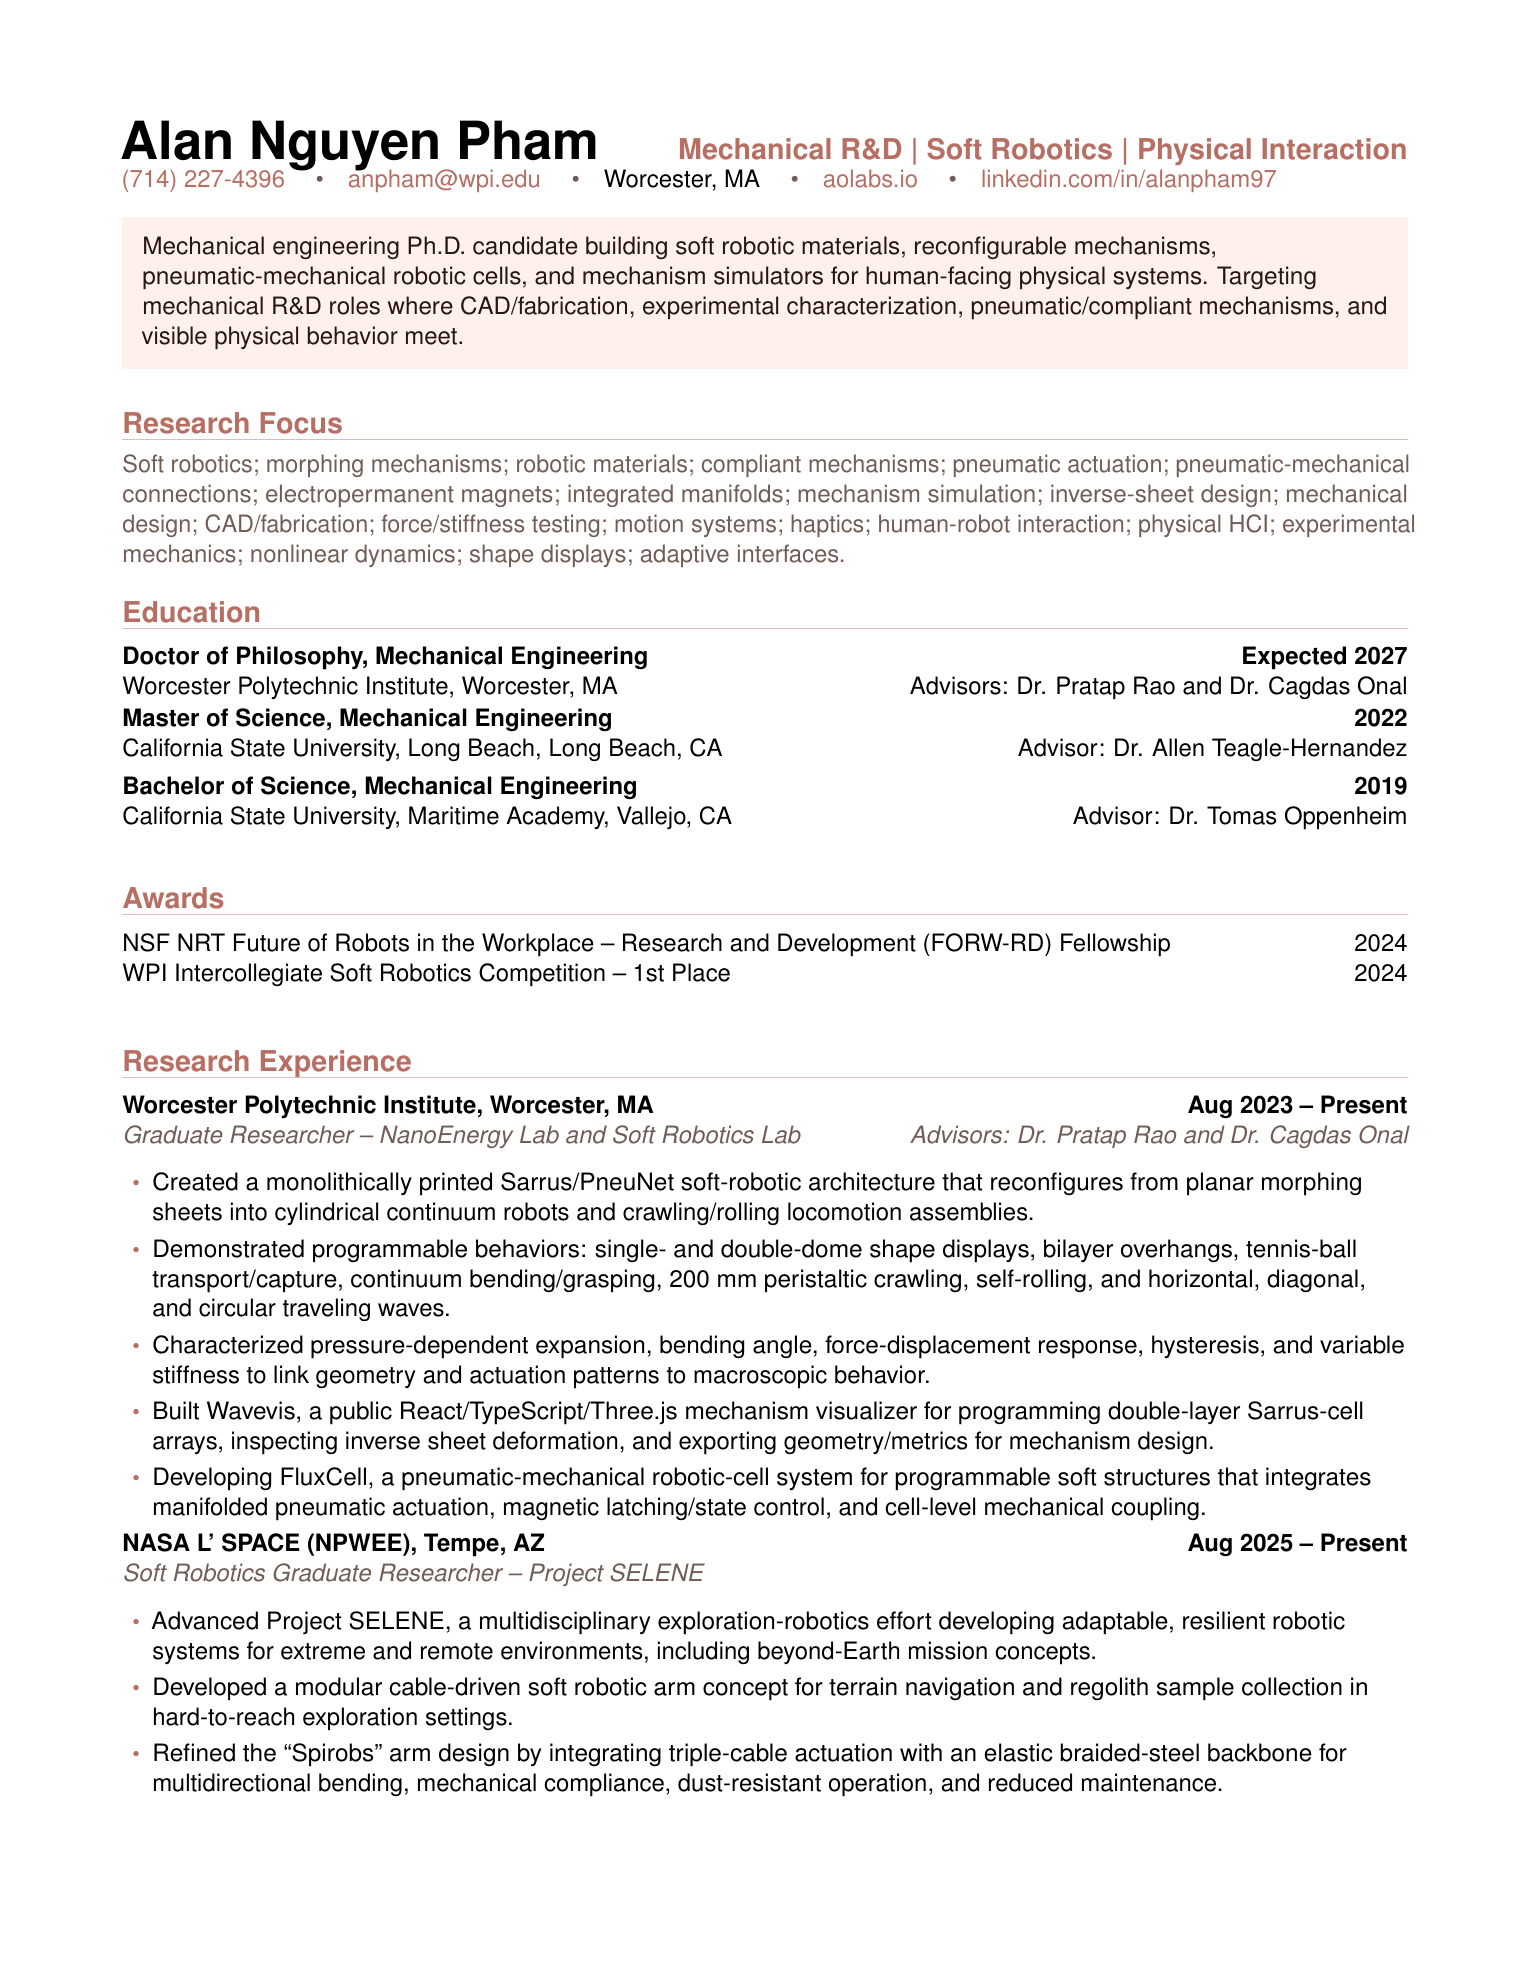
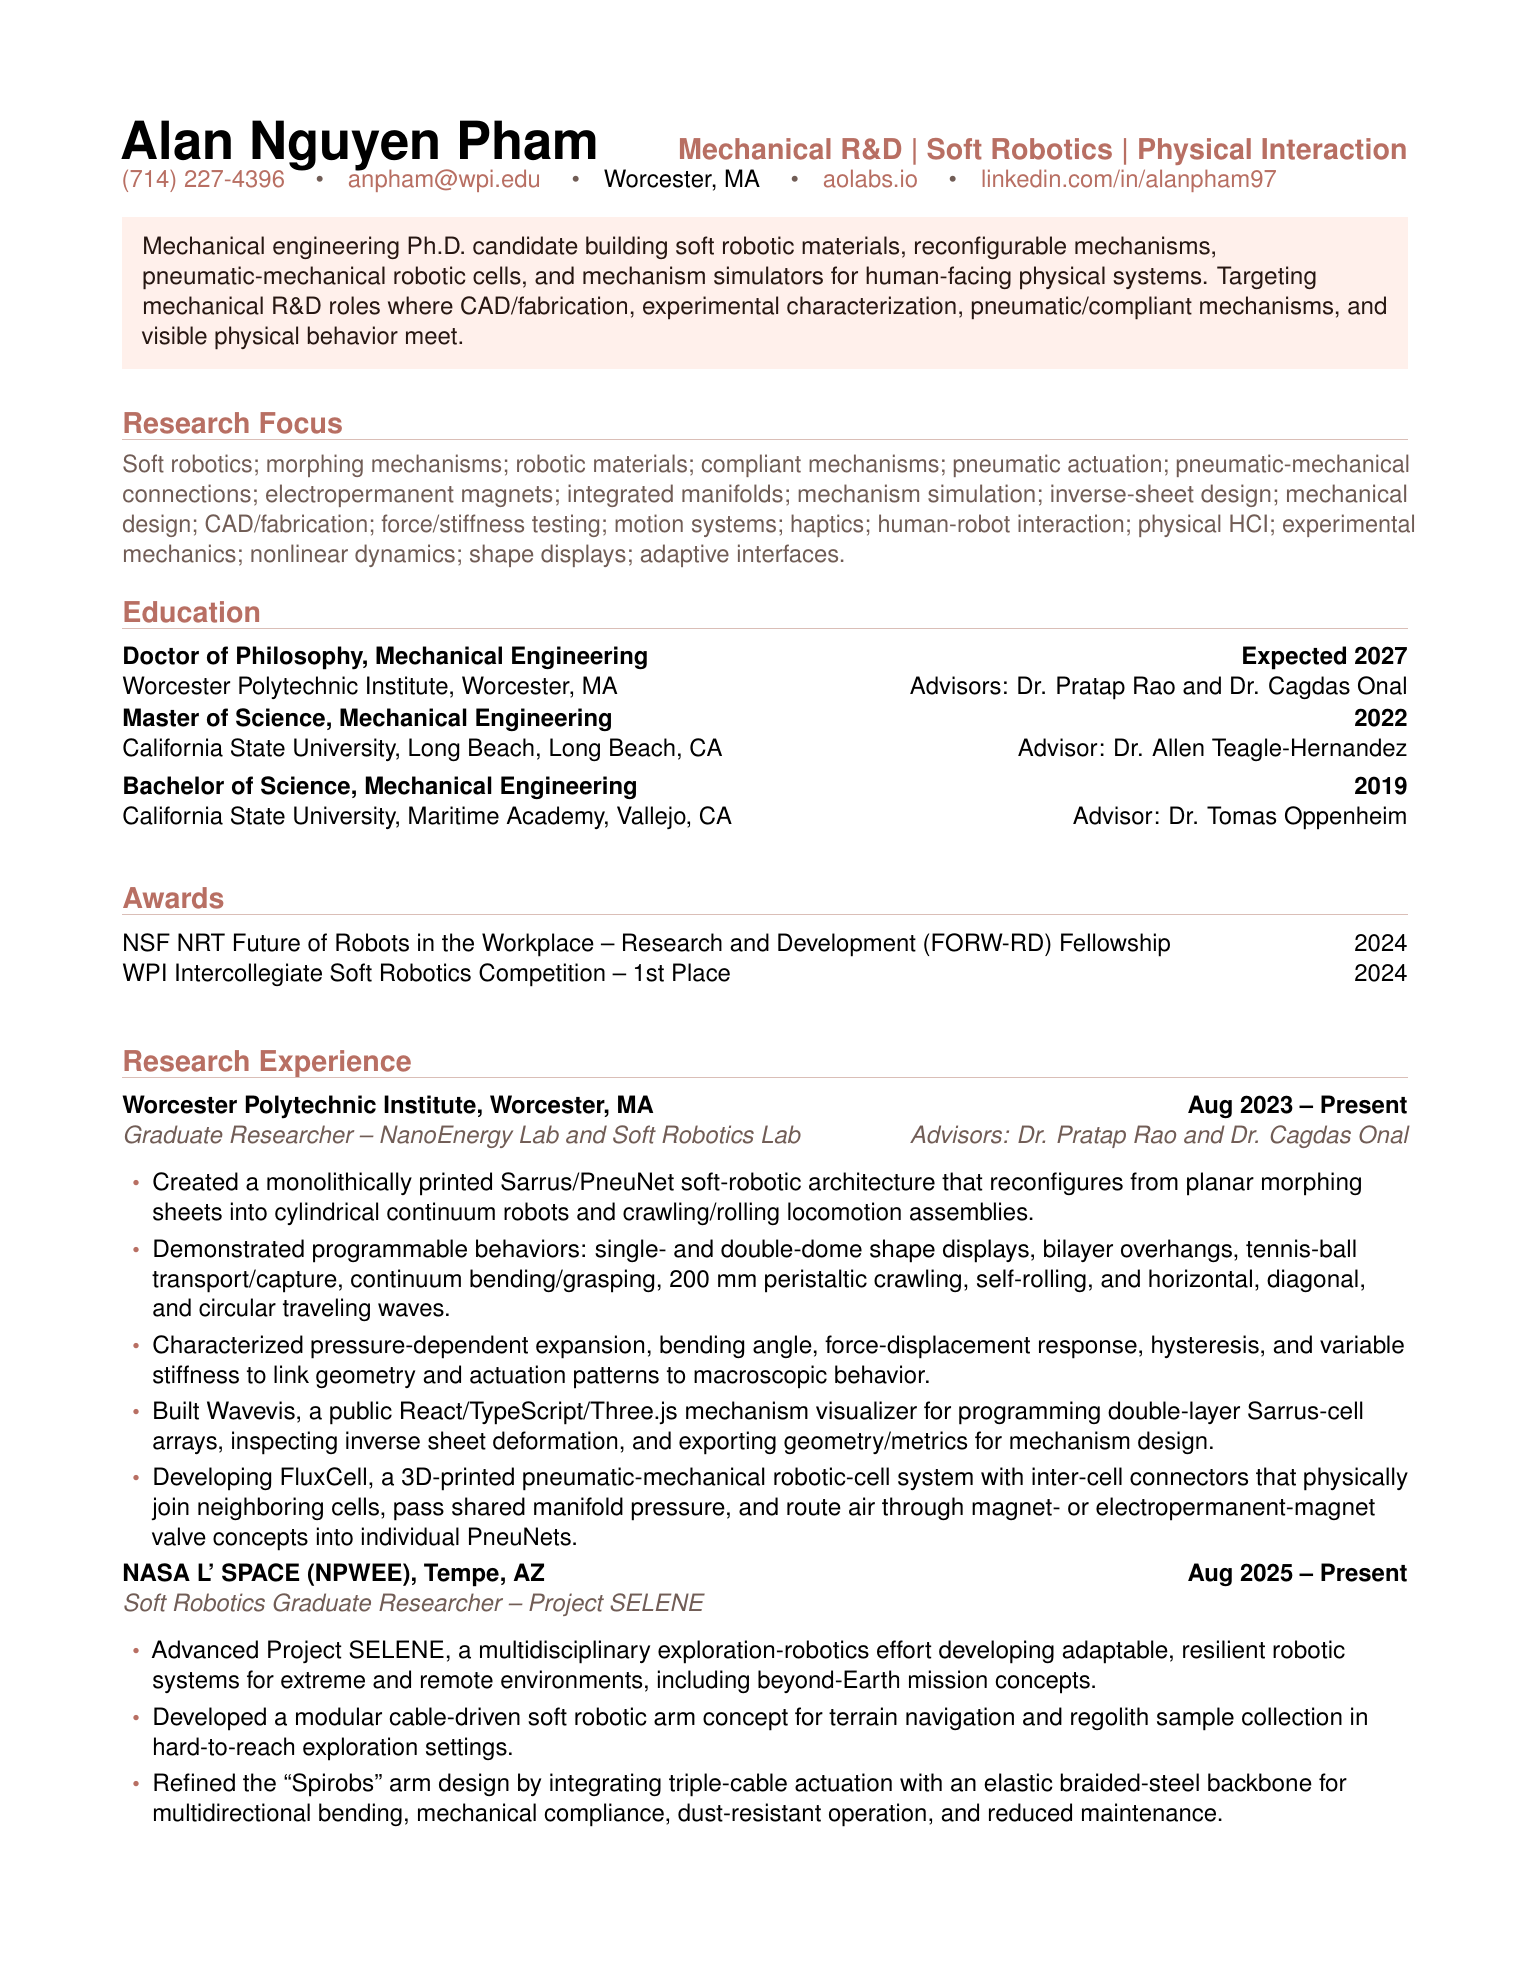
Update FluxCell CV preview wording

Changed region(s): [[0.0614, 0.7394, 0.9216, 0.9242]]

diff --git a/index.html b/index.html
@@ -38,7 +38,7 @@
       </a>
     </div>
     <div class="suite-topbar-actions" aria-label="cv actions">
-      <a href="/alan-nguyen-pham-cv.pdf?v=20260605-research-entry">open pdf</a>
+      <a href="/alan-nguyen-pham-cv.pdf?v=20260605-fluxcell-flow">open pdf</a>
     </div>
   </header>
 
@@ -47,8 +47,8 @@
       <p>Mechanical R&amp;D CV for soft robotics, mechanism simulation, pneumatic-mechanical robotic cells, experimental mechanics, and human-facing physical prototypes.</p>
     </section>
     <section class="viewer" aria-label="cv preview">
-      <a class="document-link" href="/alan-nguyen-pham-cv.pdf?v=20260605-research-entry" aria-label="Open Alan Nguyen Pham CV PDF">
-        <img src="/alan-nguyen-pham-cv-page-1.png?v=20260605-research-entry" alt="First page preview of Alan Nguyen Pham's CV.">
+      <a class="document-link" href="/alan-nguyen-pham-cv.pdf?v=20260605-fluxcell-flow" aria-label="Open Alan Nguyen Pham CV PDF">
+        <img src="/alan-nguyen-pham-cv-page-1.png?v=20260605-fluxcell-flow" alt="First page preview of Alan Nguyen Pham's CV.">
       </a>
     </section>
   </main>
